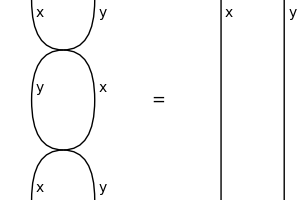
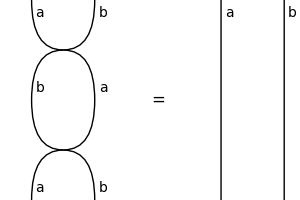
Rename symmetric doctest variables from xyzw to abcd
Test change to trigger CI's auto-regeneration of docs/_static images:
running the doctests with a, b, c, d in place of x, y, z, w changes the
labels in the rendered diagrams.

Claude-Session: https://claude.ai/code/session_017B9zeTJqLwXMCii8QNL3Pa

diff --git a/discopy/symmetric.py b/discopy/symmetric.py
@@ -22,20 +22,20 @@ Axioms
 ------
 
 >>> from discopy.drawing import Equation
->>> x, y, z, w = map(Ty, "xyzw")
->>> f, g = Box("f", x, y), Box("g", z, w)
+>>> a, b, c, d = map(Ty, "abcd")
+>>> f, g = Box("f", a, b), Box("g", c, d)
 
 Triangle
 ========
 
->>> assert Diagram.swap(Ty(), x) == Id(x) == Diagram.swap(x, Ty())
+>>> assert Diagram.swap(Ty(), a) == Id(a) == Diagram.swap(a, Ty())
 
 Hexagon
 =======
 
->>> assert Diagram.swap(x, y @ z) == Swap(x, y) @ z >> y @ Swap(x, z)
->>> assert Diagram.swap(x @ y, z) == x @ Swap(y, z) >> Swap(x, z) @ y
->>> Equation(Diagram.swap(x, y @ z), Diagram.swap(x @ y, z), symbol='').draw(
+>>> assert Diagram.swap(a, b @ c) == Swap(a, b) @ c >> b @ Swap(a, c)
+>>> assert Diagram.swap(a @ b, c) == a @ Swap(b, c) >> Swap(a, c) @ b
+>>> Equation(Diagram.swap(a, b @ c), Diagram.swap(a @ b, c), symbol='').draw(
 ...     space=2, path='docs/_static/symmetric/hexagons.png', figsize=(5, 2))
 
 .. image:: /_static/symmetric/hexagons.png
@@ -45,10 +45,10 @@ Involution
 ==========
 a.k.a. Reidemeister move 2
 
->>> assert Swap(x, y)[::-1] == Swap(y, x)
+>>> assert Swap(a, b)[::-1] == Swap(b, a)
 >>> with Diagram.hypergraph_equality:
-...     assert Swap(x, y) >> Swap(y, x) == Id(x @ y)
->>> Equation(Swap(x, y) >> Swap(y, x), Id(x @ y)).draw(
+...     assert Swap(a, b) >> Swap(b, a) == Id(a @ b)
+>>> Equation(Swap(a, b) >> Swap(b, a), Id(a @ b)).draw(
 ...     path='docs/_static/symmetric/inverse.png', figsize=(3, 2))
 
 .. image:: /_static/symmetric/inverse.png
@@ -73,8 +73,8 @@ a.k.a. Reidemeister move 3
 
 This is a special case of naturality.
 
->>> yang_baxter_left = Swap(x, y) @ z >> y @ Swap(x, z) >> Swap(y, z) @ x
->>> yang_baxter_right = x @ Swap(y, z) >> Swap(x, z) @ y >> z @ Swap(x, y)
+>>> yang_baxter_left = Swap(a, b) @ c >> b @ Swap(a, c) >> Swap(b, c) @ a
+>>> yang_baxter_right = a @ Swap(b, c) >> Swap(a, c) @ b >> c @ Swap(a, b)
 >>> with Diagram.hypergraph_equality:
 ...     assert yang_baxter_left == yang_baxter_right
 >>> Equation(yang_baxter_left, yang_baxter_right).draw(
